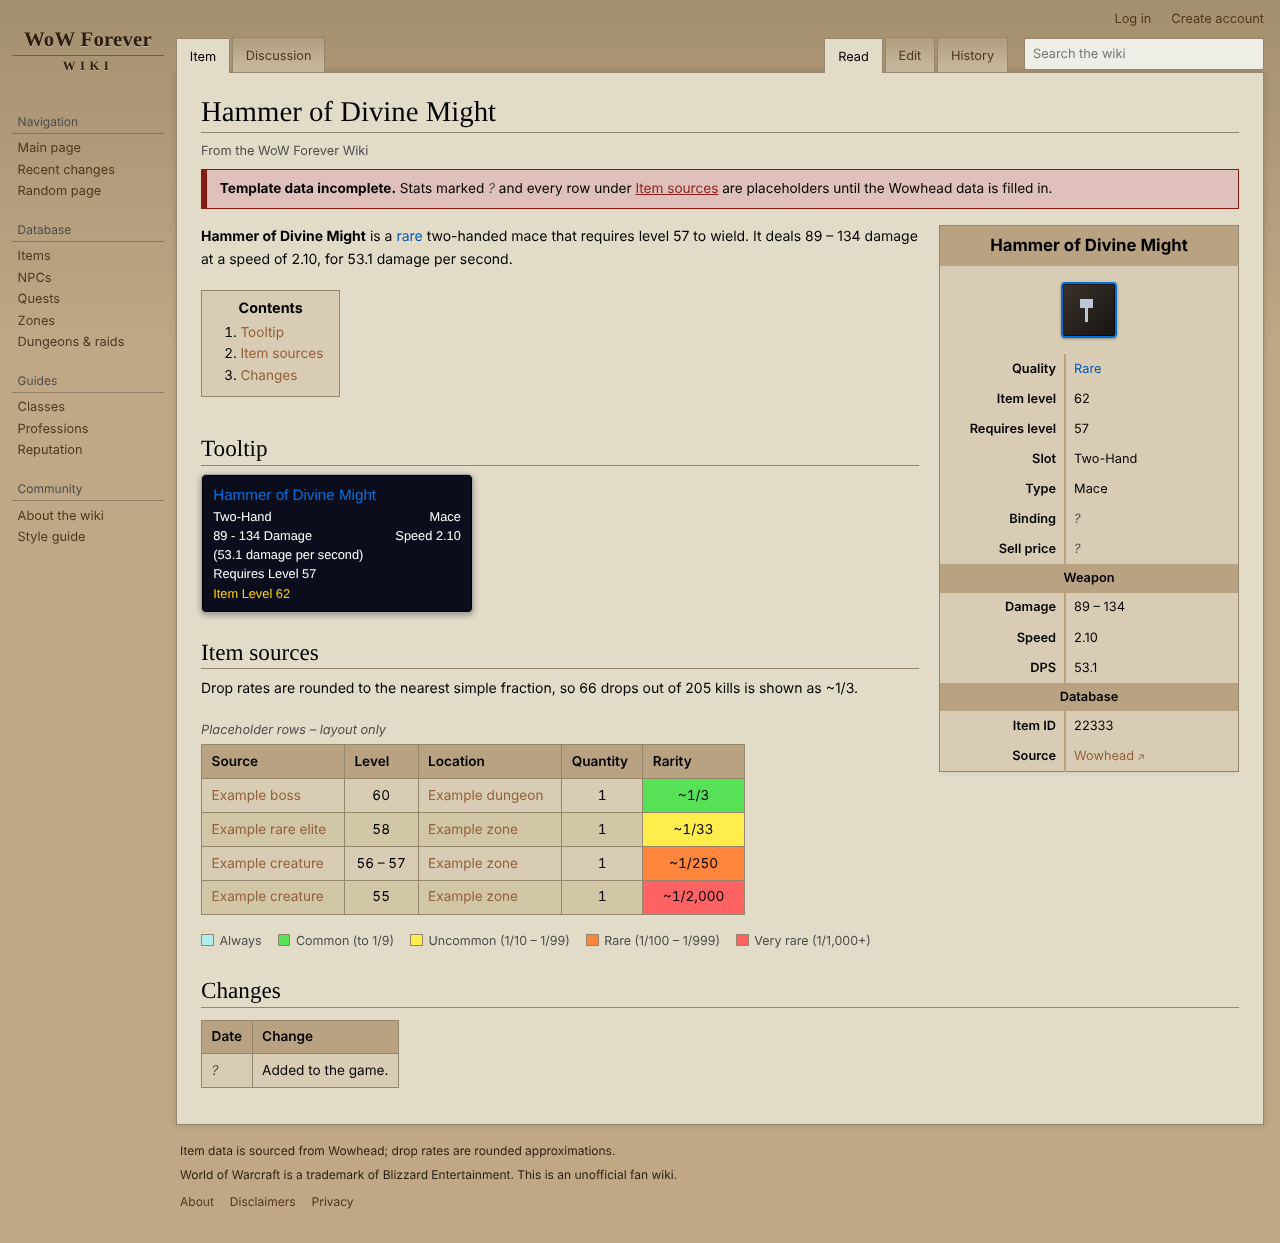
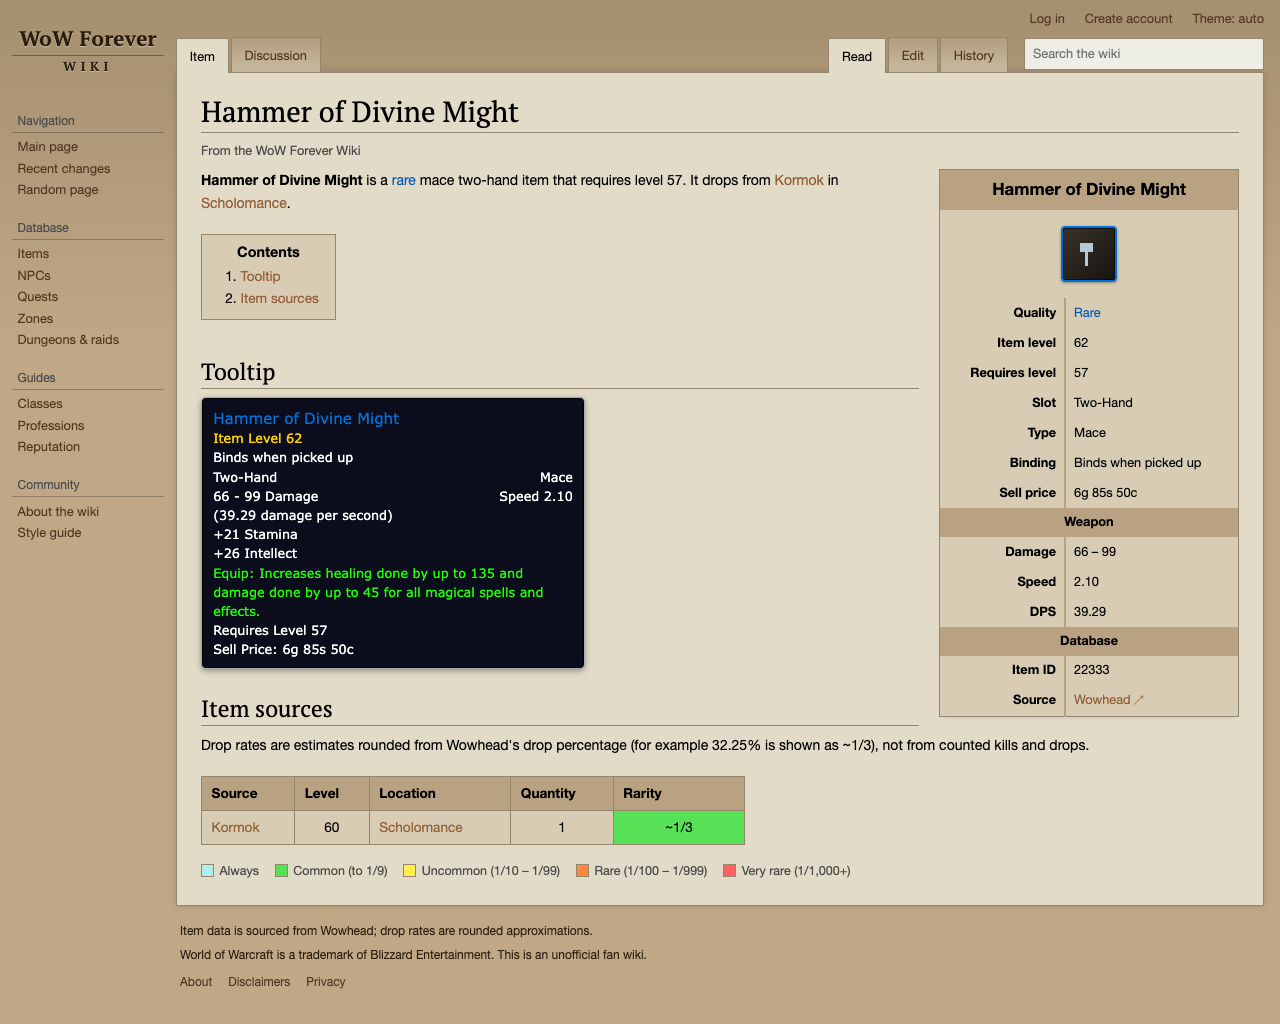
Update item page screenshots; fix tooltip width and mobile header
Retake docs/item-page-{desktop,mobile}.png from the generated Hammer of
Divine Might page (light theme, 1280px and 390px, full page).

The real data exposed two layout bugs:
- A long "Equip:" line stretched the tooltip so it no longer fit beside
  the floated infobox and dropped below it, leaving a large gap. Cap the
  tooltip at 24rem so long lines wrap like the in-game tooltip.
- On narrow screens the absolutely positioned header links overlapped
  the wordmark once the theme toggle was added. Give them their own row.

Claude-Session: https://claude.ai/code/session_01CWqvudwTcUxHUQ5HgrimQA

diff --git a/site/assets/wiki.css b/site/assets/wiki.css
@@ -347,7 +347,7 @@ a.q-rare, a.q-epic, a.q-uncommon, a.q-legendary { font-weight: 600; }
 .wow-tooltip {
   display: inline-block;
   min-width: 17rem;
-  max-width: 100%;
+  max-width: min(100%, 24rem); /* wrap long Equip: lines like the in-game tooltip, so it stays beside the infobox */
   background: #0b0d1c;
   color: #fff;
   border: 1px solid #a9a9a9;
@@ -414,7 +414,8 @@ a.q-rare, a.q-epic, a.q-uncommon, a.q-legendary { font-weight: 600; }
 
 /* ---------- Narrow screens ---------- */
 @media (max-width: 760px) {
-  #site-head { margin-left: 0; position: absolute; top: 0; right: 0; }
+  /* own row above the wordmark; absolute positioning overlapped it once the theme toggle was added */
+  #site-head { margin-left: 0; height: auto; padding: 0.4rem 1rem 0; flex-wrap: wrap; }
   #site-panel { position: static; width: auto; padding: 0.5rem 1rem 0; }
   #site-panel nav { display: none; }
   .wordmark { text-align: left; padding: 0.25rem 0 0.5rem; }
